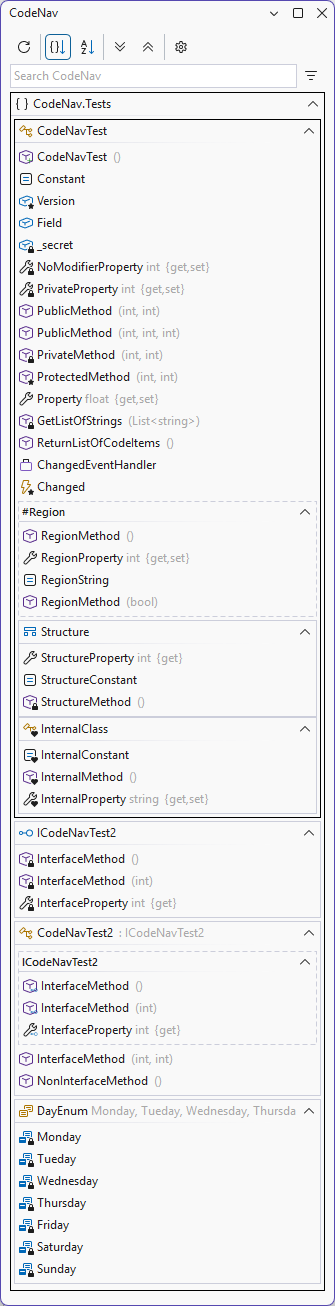
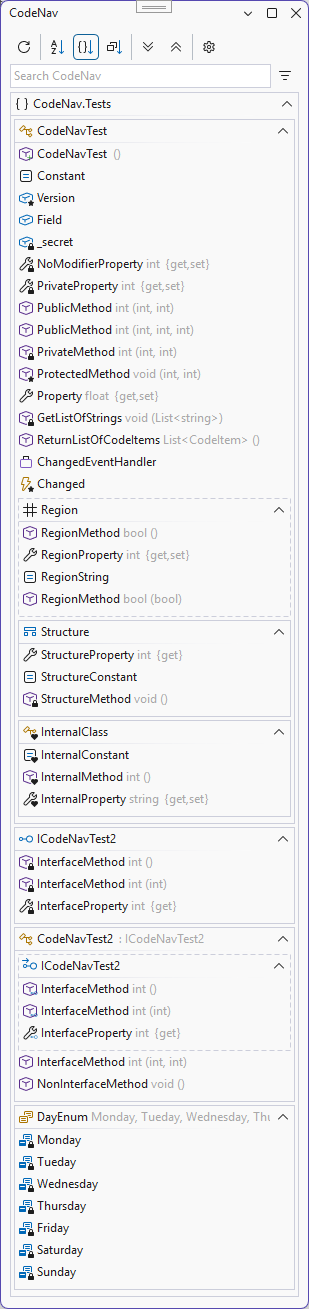
Add setting Update Readme

diff --git a/src/CodeNav.OutOfProc/ToolWindows/Templates/CodeItemStyles.xaml b/src/CodeNav.OutOfProc/ToolWindows/Templates/CodeItemStyles.xaml
@@ -100,7 +100,7 @@
                         </Grid>
                     </Button>
                     <DataTemplate.Triggers>
-                        <DataTrigger Binding="{Binding ShowCompact}" Value="True">
+                        <DataTrigger Binding="{Binding UseCompactMode}" Value="True">
                             <Setter Property="Padding" TargetName="CodeItemButton" Value="3 0" />
                             <Setter Property="Margin" TargetName="CodeItemButton" Value="-3 0" />
                         </DataTrigger>
@@ -162,7 +162,7 @@
                                                 <Setter Property="FrameworkElement.Visibility" Value="{Binding Visibility}"/>
                                                 <Setter Property="FrameworkElement.Margin" Value="0 0 0 3"/>
                                                 <Style.Triggers>
-                                                    <DataTrigger Binding="{Binding ShowCompact}" Value="True">
+                                                    <DataTrigger Binding="{Binding UseCompactMode}" Value="True">
                                                         <Setter Property="FrameworkElement.Margin" Value="0 0 0 1"/>
                                                     </DataTrigger>
                                                 </Style.Triggers>
@@ -171,7 +171,7 @@
                                         <ItemsControl.Style>
                                             <Style>
                                                 <Style.Triggers>
-                                                    <DataTrigger Binding="{Binding ShowCompact}" Value="True">
+                                                    <DataTrigger Binding="{Binding UseCompactMode}" Value="True">
                                                         <Setter Property="FrameworkElement.Margin" Value="3 0" />
                                                     </DataTrigger>
                                                 </Style.Triggers>
@@ -203,7 +203,7 @@
                                             <Setter Property="FrameworkElement.Visibility" Value="{Binding Visibility}"/>
                                             <Setter Property="FrameworkElement.Margin" Value="0 0 0 3"/>
                                             <Style.Triggers>
-                                                <DataTrigger Binding="{Binding ShowCompact}" Value="True">
+                                                <DataTrigger Binding="{Binding UseCompactMode}" Value="True">
                                                     <Setter Property="FrameworkElement.Margin" Value="0 0 0 1"/>
                                                 </DataTrigger>
                                             </Style.Triggers>
@@ -212,7 +212,7 @@
                                 </ItemsControl>
                             </StackPanel>
                             <DataTemplate.Triggers>
-                                <DataTrigger Binding="{Binding ShowCompact}" Value="True">
+                                <DataTrigger Binding="{Binding UseCompactMode}" Value="True">
                                     <Setter Property="Margin" TargetName="MembersItemsControl" Value="3 0" />
                                 </DataTrigger>
                             </DataTemplate.Triggers>
@@ -271,7 +271,7 @@
                                                 <Setter Property="FrameworkElement.Visibility" Value="{Binding Visibility}"/>
                                                 <Setter Property="FrameworkElement.Margin" Value="0 0 0 3"/>
                                                 <Style.Triggers>
-                                                    <DataTrigger Binding="{Binding ShowCompact}" Value="True">
+                                                    <DataTrigger Binding="{Binding UseCompactMode}" Value="True">
                                                         <Setter Property="FrameworkElement.Margin" Value="0 0 0 1"/>
                                                     </DataTrigger>
                                                 </Style.Triggers>
@@ -280,7 +280,7 @@
                                         <ItemsControl.Style>
                                             <Style>
                                                 <Style.Triggers>
-                                                    <DataTrigger Binding="{Binding ShowCompact}" Value="True">
+                                                    <DataTrigger Binding="{Binding UseCompactMode}" Value="True">
                                                         <Setter Property="FrameworkElement.Margin" Value="3 0" />
                                                     </DataTrigger>
                                                 </Style.Triggers>
@@ -290,7 +290,7 @@
                                 </Expander>
                             </StackPanel>
                             <DataTemplate.Triggers>
-                                <DataTrigger Binding="{Binding ShowCompact}" Value="True">
+                                <DataTrigger Binding="{Binding UseCompactMode}" Value="True">
                                     <Setter Property="Margin" TargetName="MembersItemsControl" Value="3 0" />
                                 </DataTrigger>
                             </DataTemplate.Triggers>
@@ -344,7 +344,7 @@
                                             <Setter Property="FrameworkElement.Visibility" Value="{Binding Visibility}"/>
                                             <Setter Property="FrameworkElement.Margin" Value="0 0 0 3"/>
                                             <Style.Triggers>
-                                                <DataTrigger Binding="{Binding ShowCompact}" Value="True">
+                                                <DataTrigger Binding="{Binding UseCompactMode}" Value="True">
                                                     <Setter Property="FrameworkElement.Margin" Value="0 0 0 1"/>
                                                 </DataTrigger>
                                             </Style.Triggers>
@@ -353,7 +353,7 @@
                                 </ItemsControl>
                             </Expander>
                             <DataTemplate.Triggers>
-                                <DataTrigger Binding="{Binding ShowCompact}" Value="True">
+                                <DataTrigger Binding="{Binding UseCompactMode}" Value="True">
                                     <Setter Property="Margin" TargetName="MembersItemsControl" Value="3 0" />
                                 </DataTrigger>
                             </DataTemplate.Triggers>

diff --git a/src/CodeNav.OutOfProc/ToolWindows/Templates/ExpanderStyles.xaml b/src/CodeNav.OutOfProc/ToolWindows/Templates/ExpanderStyles.xaml
@@ -157,7 +157,7 @@
                         <DataTrigger Binding="{Binding Path=DataContext.IsItalic, RelativeSource={RelativeSource Self}}" Value="True">
                             <Setter Property="FontStyle" Value="Italic" />
                         </DataTrigger>
-                        <DataTrigger Binding="{Binding Path=DataContext.ShowCompact, RelativeSource={RelativeSource Self}}" Value="True">
+                        <DataTrigger Binding="{Binding Path=DataContext.UseCompactMode, RelativeSource={RelativeSource Self}}" Value="True">
                             <Setter Property="Padding" TargetName="ExpanderHeaderButton" Value="3 0" />
                         </DataTrigger>
                     </ControlTemplate.Triggers>

diff --git a/src/CodeNav.OutOfProc/Dialogs/SettingsDialog/SettingsDialogControl.xaml b/src/CodeNav.OutOfProc/Dialogs/SettingsDialog/SettingsDialogControl.xaml
@@ -35,6 +35,10 @@
                 <CheckBox IsChecked="{Binding ShowToolWindowForUnsupportedFiles, Mode=TwoWay}">
                     Show the tool window for unsupported files and files without code items
                 </CheckBox>
+
+                <CheckBox IsChecked="{Binding UseCompactMode, Mode=TwoWay}">
+                    Use compact mode with less spacing
+                </CheckBox>
             </StackPanel>
         </GroupBox>
 

diff --git a/src/CodeNav.OutOfProc/Models/GlobalSettings.cs b/src/CodeNav.OutOfProc/Models/GlobalSettings.cs
@@ -1,5 +1,4 @@
 using CodeNav.OutOfProc.Constants;
-using System.Runtime.Serialization;
 
 namespace CodeNav.OutOfProc.Models;
 
@@ -36,10 +35,14 @@ public class GlobalSettings
     public bool EnableCrashAnalytics { get; set; }
 
     /// <summary>
-    /// Setting if CodeNav should be shown or hidden for unsupported files and files without code items
+    /// Settings dialog - Setting if CodeNav should be shown or hidden for unsupported files and files without code items
     /// </summary>
-    [DataMember]
     public bool ShowToolWindowForUnsupportedFiles { get; set; } = true;
+
+    /// <summary>
+    /// Settings dialog - Setting if CodeNav should use a compact mode with less vertical margins
+    /// </summary>
+    public bool UseCompactMode { get; set; }
 
     /// <summary>
     /// Main toolbar - Setting to store the selected sort order for code items

diff --git a/src/CodeNav.OutOfProc/ViewModels/CodeDocumentViewModel.cs b/src/CodeNav.OutOfProc/ViewModels/CodeDocumentViewModel.cs
@@ -242,6 +242,7 @@ public class CodeDocumentViewModel : NotifyPropertyChangedObject
         CodeDocumentService.GlobalSettings.UpdateWhileTyping = CodeDocumentService.SettingsDialogData.UpdateWhileTyping;
         CodeDocumentService.GlobalSettings.EnableCrashAnalytics = CodeDocumentService.SettingsDialogData.EnableCrashAnalytics;
         CodeDocumentService.GlobalSettings.ShowToolWindowForUnsupportedFiles = CodeDocumentService.SettingsDialogData.ShowToolWindowForUnsupportedFiles;
+        CodeDocumentService.GlobalSettings.UseCompactMode = CodeDocumentService.SettingsDialogData.UseCompactMode;
 
         await SettingsHelper.SaveGlobalSettings(CodeDocumentService);
 

diff --git a/src/CodeNav.OutOfProc/ViewModels/CodeItem.cs b/src/CodeNav.OutOfProc/ViewModels/CodeItem.cs
@@ -236,11 +236,13 @@ public class CodeItem : NotifyPropertyChangedObject
         set => SetProperty(ref _fontSize, value);
     }
 
+    /// <summary>
+    /// If the code item should use less vertical space based on the settings
+    /// </summary>
     [DataMember]
-    public bool ShowCompact
+    public bool UseCompactMode
     {
-        //get => CodeDocumentViewModel.CodeDocumentService.GlobalSettings.ShowCompact;
-        get => true;
+        get => CodeDocumentViewModel?.CodeDocumentService?.GlobalSettings?.UseCompactMode == true;
     }
 
     #region Commands

diff --git a/src/CodeNav.OutOfProc/Services/CodeDocumentService.cs b/src/CodeNav.OutOfProc/Services/CodeDocumentService.cs
@@ -171,6 +171,7 @@ public class CodeDocumentService(
                 UpdateWhileTyping = GlobalSettings.UpdateWhileTyping,
                 EnableCrashAnalytics = GlobalSettings.EnableCrashAnalytics,
                 ShowToolWindowForUnsupportedFiles = GlobalSettings.ShowToolWindowForUnsupportedFiles,
+                UseCompactMode = GlobalSettings.UseCompactMode,
             };
 
             var filterRules = GlobalSettings

diff --git a/src/CodeNav.OutOfProc/Dialogs/SettingsDialog/SettingsDialogData.cs b/src/CodeNav.OutOfProc/Dialogs/SettingsDialog/SettingsDialogData.cs
@@ -46,4 +46,10 @@ public class SettingsDialogData
     /// </summary>
     [DataMember]
     public bool ShowToolWindowForUnsupportedFiles { get; set; } = true;
+
+    /// <summary>
+    /// Setting if CodeNav should use a compact mode with less vertical margins
+    /// </summary>
+    [DataMember]
+    public bool UseCompactMode { get; set; }
 }

diff --git a/README.md b/README.md
@@ -1,11 +1,11 @@
-<img src="https://raw.githubusercontent.com/sboulema/CodeNav/main/art/Logo_90x90.png" />
+<img src="https://raw.githubusercontent.com/sboulema/CodeNav/main/art/Logo_90x90.png" />
 
 # CodeNav 
 Visual Studio extension to show the code structure of your current document
 
 [![Sponsor](https://img.shields.io/badge/-Sponsor-fafbfc?logo=GitHub%20Sponsors)](https://github.com/sponsors/sboulema)
 
-## Features
+# ✨ Features
 - Quickly see all the important methods and properties in your document
 - Never get lost during a refactoring of a super long document
 - Clicking on an item in the list will take you to that location in the document
@@ -23,27 +23,28 @@ Visual Studio extension to show the code structure of your current document
 - Bookmarks
 - Synced collapsing/expanding outline regions
 - Option to hide the tool window for unsupported files and files without code items
+- Compact mode with less spacing optimizing screen real estate
 
 
-## Supported Visual Studio versions
+# 💻 Supported Visual Studio versions
 
 - Visual Studio 2022 (Untested)
 - Visual Studio 2026
 
-## Language support
+# 🔤 Language support
 - C#
 
-## Installing
-[Visual Studio Marketplace](https://marketplace.visualstudio.com/items?itemName=SamirBoulema.CodeNav2026) [![Visual Studio Marketplace](https://img.shields.io/vscode-marketplace/v/SamirBoulema.CodeNav2026.svg?style=flat)](https://marketplace.visualstudio.com/items?itemName=SamirBoulema.CodeNav2026)
+# ⬇ Installing
+[Visual Studio Marketplace](https://marketplace.visualstudio.com/items?itemName=SamirBoulema.CodeNav2026)
 
 [GitHub Releases](https://github.com/sboulema/CodeNav/releases)
 
 [Open VSIX Gallery](https://www.vsixgallery.com/extension/CodeNav.dcdbcca4-3a88-432f-ba04-eb4a4cb64437)
 
-## Usage
+# 🤲 Usage
 The CodeNav tool window can be opened via the entry in the `Extensions` menu.
 
-## Screenshots
+# 🖼 Screenshots
 ![Preview](https://raw.githubusercontent.com/sboulema/CodeNav/main/art/Screenshot-light.png) ![Preview-Dark](https://raw.githubusercontent.com/sboulema/CodeNav/main/art/Screenshot-dark.png)
 
 #### Filter window
@@ -55,5 +56,8 @@ The CodeNav tool window can be opened via the entry in the `Extensions` menu.
 #### Bookmarks
 ![Bookmarks](https://raw.githubusercontent.com/sboulema/CodeNav/main/art/Bookmarks.png)
 
-## Documentation
+#### Compact mode
+![Compact](https://raw.githubusercontent.com/sboulema/CodeNav/main/art/Compact.png)
+
+# 📄 Documentation
 Looking for more info? Read the full [Documentation](https://github.com/sboulema/CodeNav/blob/main/docs/index.md) with links, guides, troubleshooting, and tips. 

diff --git a/docs/settings.md b/docs/settings.md
@@ -18,6 +18,10 @@ Enable or disable highlighting the item in CodeNav based on caret position
 
 Enable or disable showing the CodeNav tool window for unsupported files and files without code items
 
+**Use compact mode with less spacing**
+
+Enable or disable showing items in a condensed form with less vertical spacing optimizing screen real estate
+
 **Update CodeNav while typing**
 
 Enable of disable updating the list of code items in CodeNav while typing in the text editor
